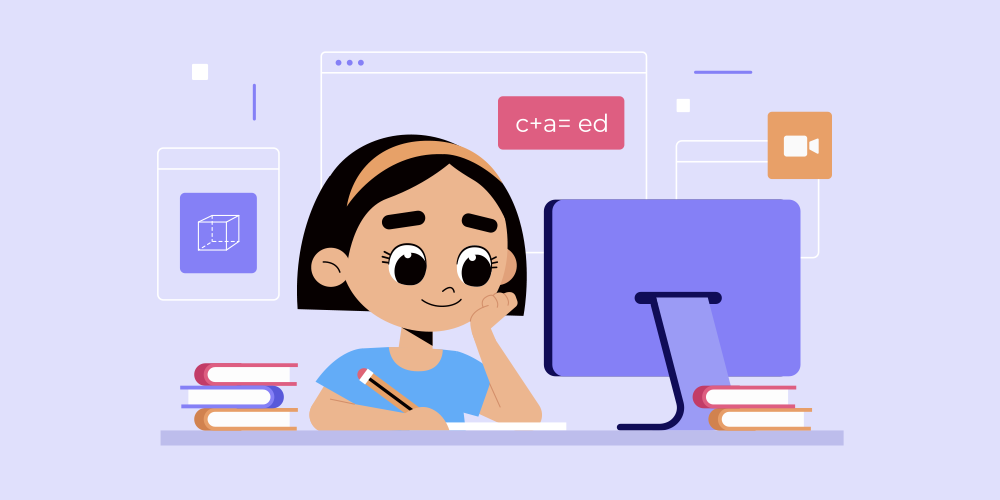
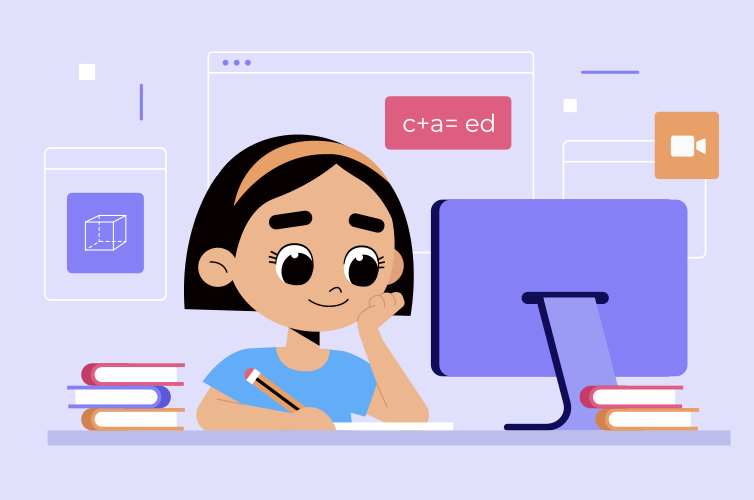
second commit

diff --git a/style.css b/style.css
@@ -27,15 +27,20 @@ header h1 {
     margin: 0;
 }
 .content-image-container {
-    display: flex;
-    align-items: center;
-    padding:35px;
-    background-color: #e0e0fc
+    display: inline-block;
+    background-color:#e0e0fc;
+    padding:30px;
+    background-image: url(image/image-1.png);
+    background-size: 650px;
+    background-position: right;
+    background-repeat: no-repeat;
+    height: 350px;
 }
 .text-content {
     max-width: 50%;
 }
 .description, .description1 {
+    display: inline-block;
     margin-bottom: 20px;
     padding:15px;
 }
@@ -50,9 +55,9 @@ header h1 {
 .bold-text {
     font-weight: bold;
 }
-.image img {
+.image {
     max-width: 100%; 
-    display: block;
+    display: inline-block;
     margin-left: auto; 
 }
 .choose-container {
@@ -61,10 +66,8 @@ header h1 {
     font-size: 20px;
 }
 .choose-explore-container {
-    display: flex;
-    flex-direction: column; /* Stack items vertically */
-    align-items: flex-start; /* Align items to the start (left) */
-    margin-top: 20px; /* Space between the text and the dropdown/button */
+    display: block;
+    margin-top: 20px;
     
 }
 
@@ -102,27 +105,30 @@ header h1 {
     margin:0;
 }
 .images-row {
-    display: flex;
-    justify-content: space-around; /* Space between items */
-    align-items: center; /* Center items vertically */
-    padding: 20px;
-    background-color: #f1f1fe; /* Match the background color to your design */
+    text-align: center;
+    background-color: #f1f1fe; 
+    padding: 10px;
+    
+    
 }
 
 .image-item {
     text-align: center; /* Center the content under each image */
-    flex: 1; /* Allow items to grow equally */
-    margin: 0 10px; /* Space between items */
+    display:inline-block;
+    width:30%;
+    margin-bottom: 20px;
 }
 
 .image-item img {
-    max-width: 100%; /* Ensure images are responsive */
-    height: 200px; /* Maintain aspect ratio */
-    border-radius: 10px; /* Optional: add rounded corners */
+    width:60%;
+    max-height:160px;
+    border-radius: 10px; /*add rounded corners */ 
+    margin-bottom: 10px;
 }
-
 .image-content {
-    font-size: 18px;
+    font-size: 13px;
+    padding: 10px;
+    text-align: left;
     margin-top: 10px; /* Space between image and text */
     color: #2a2a2b; /* Match the text color */
 }
@@ -137,13 +143,11 @@ header h1 {
     padding: 20px;
     text-align: center;
 }
-
 .name {
     margin: 20px auto; /* Center the input field horizontally and add margin for spacing */
     max-width: 500px; /* Set a max width for the input field container */
     text-align: left; /* Align the label text to the left */
 }
-
 .name label {
     display: block; /* Ensure the label is on a new line above the input */
     margin-bottom: 8px; /* Space between label and input */

diff --git a/index.html b/index.html
@@ -32,11 +32,8 @@
                     <option value="option4">Algorithms</option>
                     <option value="option5">Data stuctures</option>
                 </select>
-                <button class="explore-button">EXPLORE</button>
             </div>
-        </div>
-        <div class="image">
-            <img src="image/image-1.png" alt="Tutorials Image">
+            <button class="explore-button">EXPLORE</button>
         </div>
     </section>
     <section>
@@ -49,7 +46,7 @@
     </section>
     <section class="images-row">
         <div class="image-item">
-            <img src="image\data-stucture.jpeg" alt="Image 2">
+            <span class="img-size"><img src="image\data-stucture.jpeg" alt="Image 2"></span>
             <div class="Read-more">
                 DATA STUCTURES
             </div>
@@ -59,7 +56,7 @@
             </div>
         </div>
         <div class="image-item">
-            <img src="image\image-program.jpg" alt="Image 3">
+            <span class="img-size"><img src="image\image-program.jpg" alt="Image 3"></span>
             <div class="Read-more">
                 CODING
             </div>
@@ -69,7 +66,7 @@
             </div>
         </div>
         <div class="image-item">
-            <img src="image\algorithm.png" alt="Image 4">
+            <span class="img-size"><img src="image\algorithm.png" alt="Image 4"></span>
             <div class="Read-more">
                 ALGORITHM
             </div>
@@ -81,7 +78,7 @@
     </section>
     <section class="images-row">
         <div class="image-item">
-            <img src="image\code.jpeg" alt="Image 2">
+            <span class="img-size"><img src="image\code.jpeg" alt="Image 2"></span>
             <div class="Read-more">
                 PROGRAMMING LANGUAGES
             </div>
@@ -91,7 +88,7 @@
             </div>
         </div>
         <div class="image-item">
-            <img src="image\html-css.avif" alt="Image 3">
+            <span class="img-size"><img src="image\html-css.avif" alt="Image 3"></span>
             <div class="Read-more">
                 WEB-DEVELOPMENT
             </div>
@@ -101,7 +98,7 @@
             </div>
         </div>
         <div class="image-item">
-            <img src="image\css2.avif" alt="Image 4">
+            <span class="img-size"><img src="image\css2.avif" alt="Image 4"></span>
             <div class="Read-more">
                 PROJECTS
             </div>
